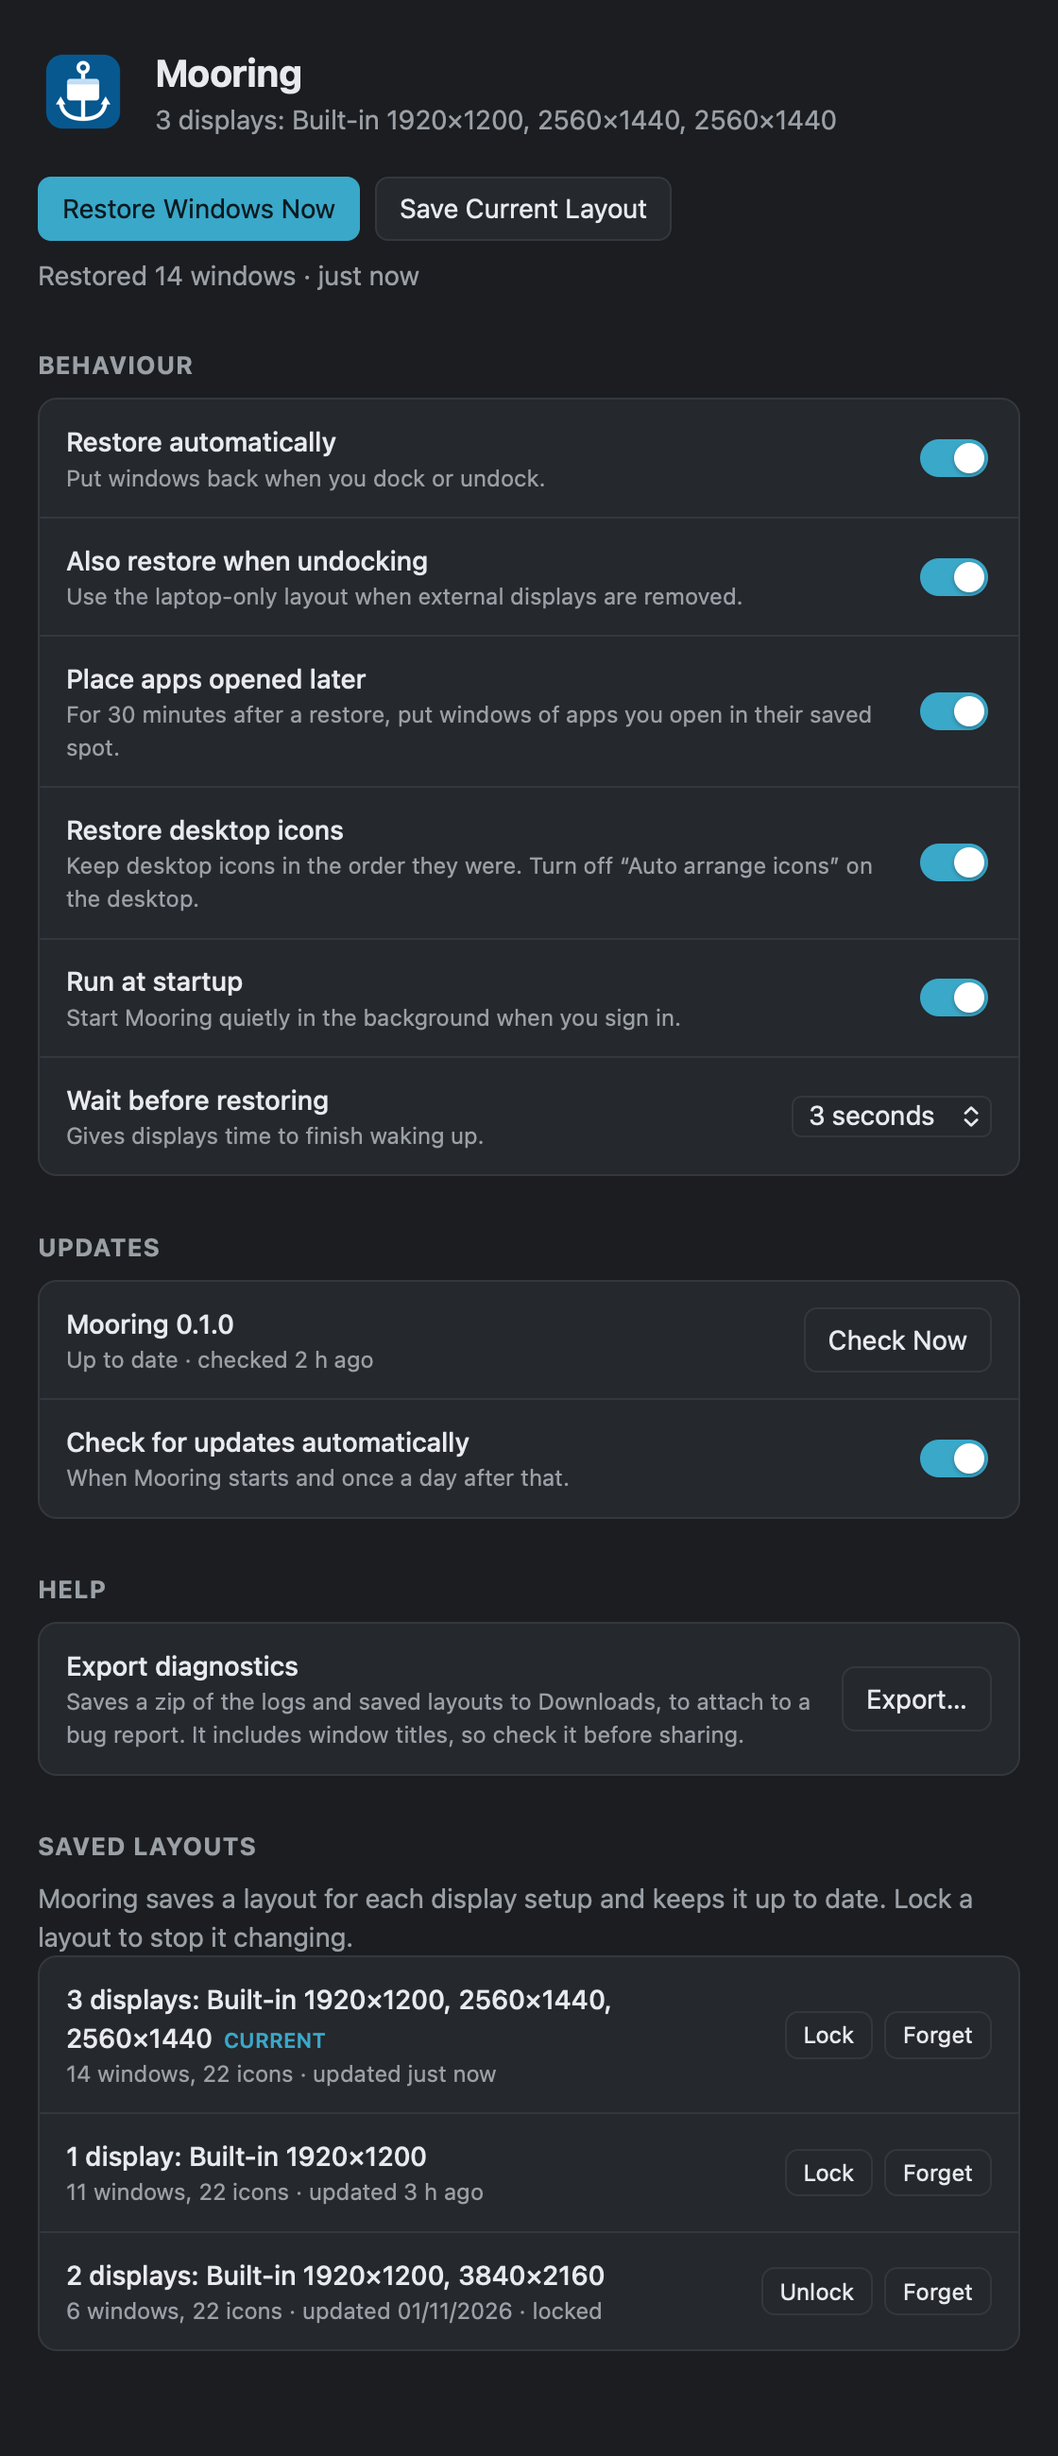
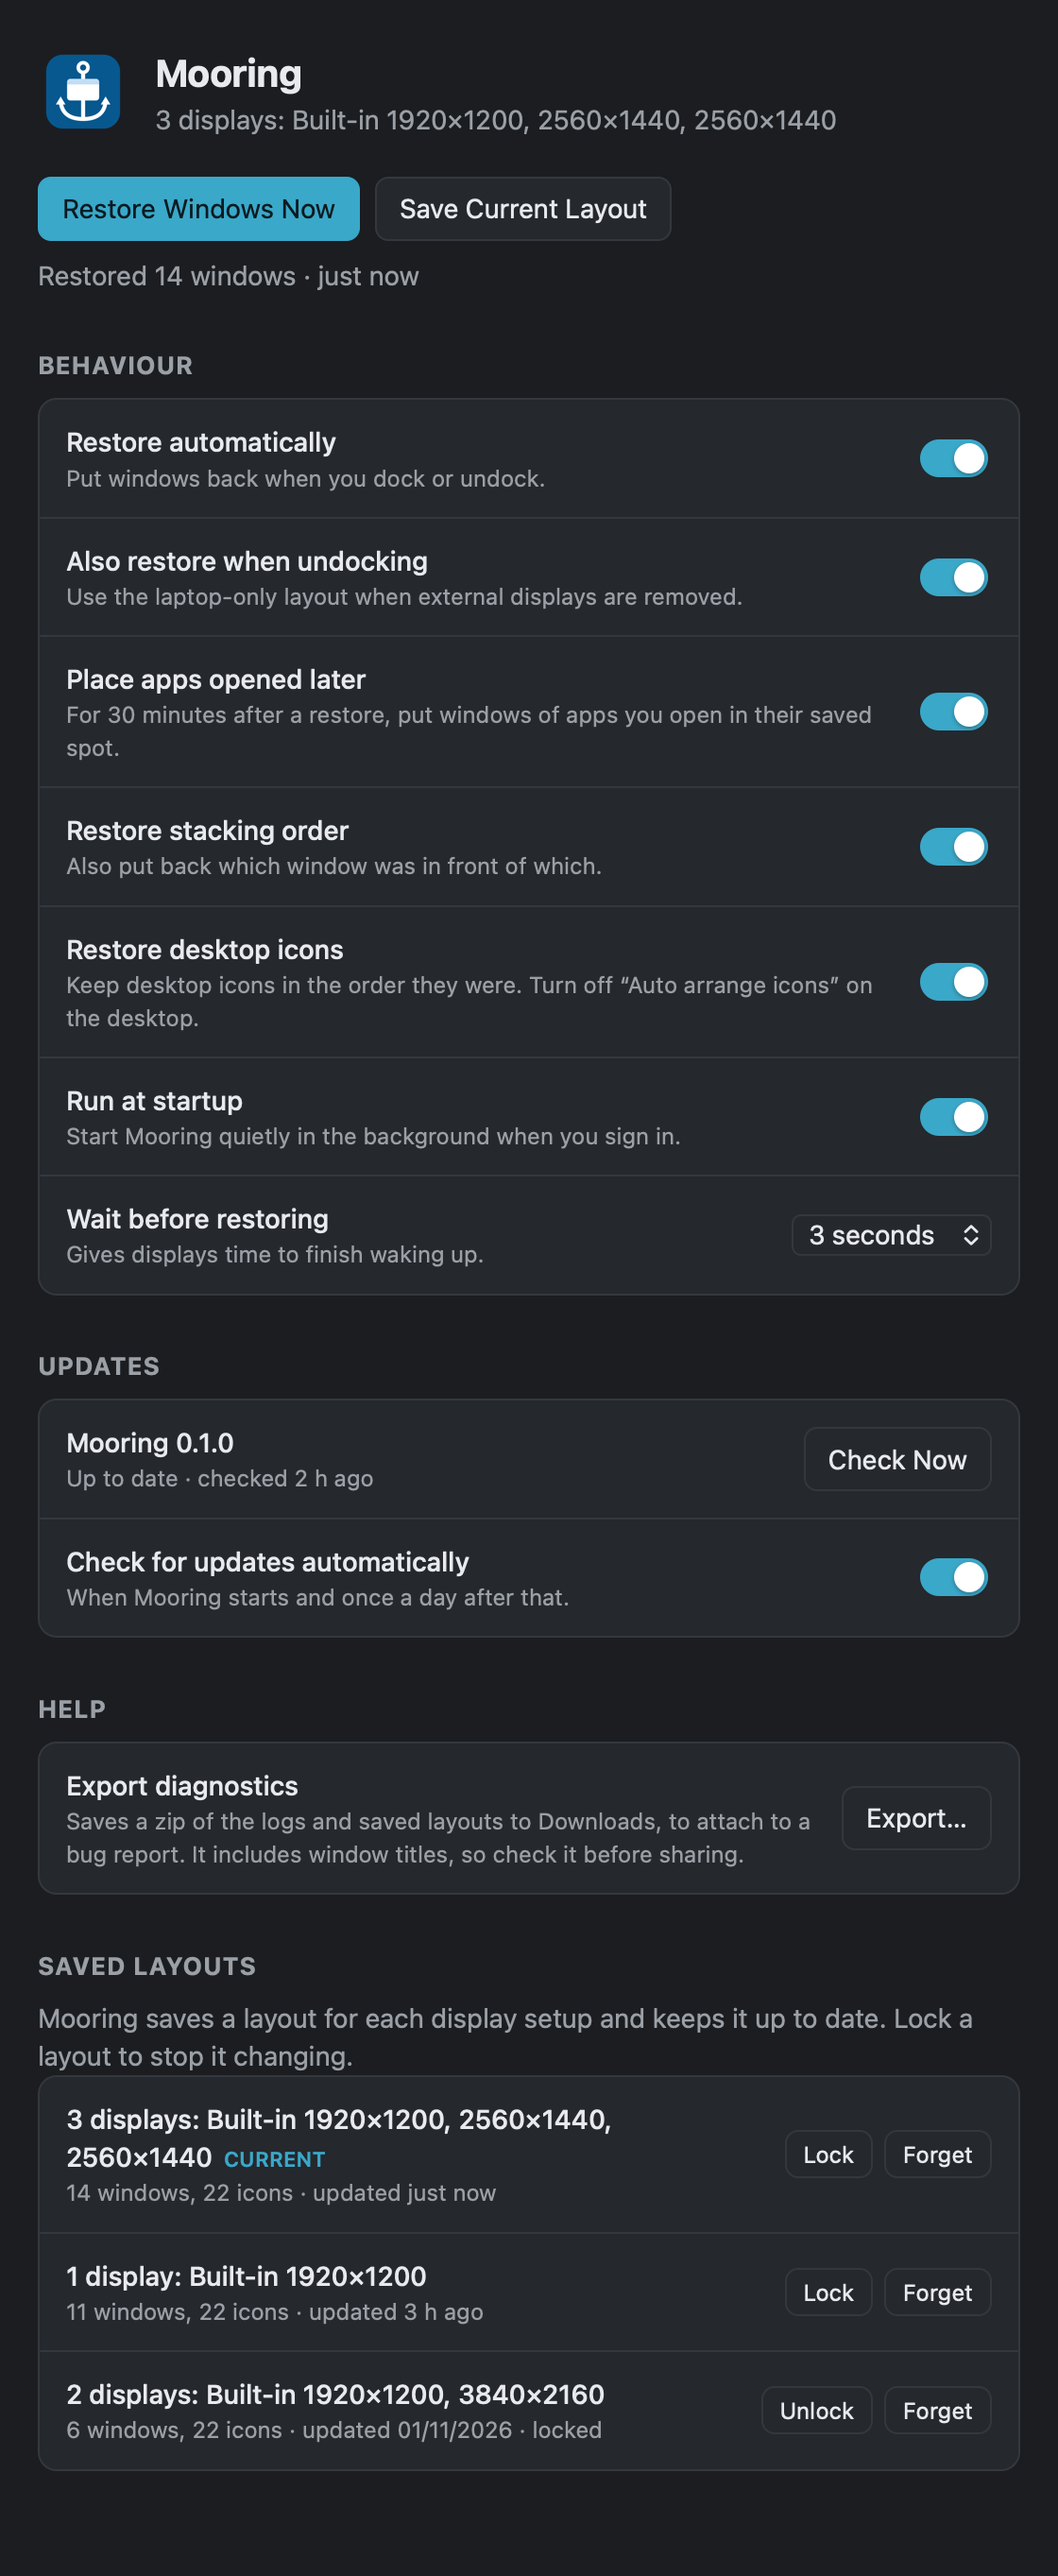
Restore window stacking order
After a restore, windows are put back in their saved front-to-back
order. Windows reorders them with SetWindowPos without activating any;
macOS raises each window back to front through Accessibility, which
briefly brings each app forward. "Restore stacking order" is on by
default on Windows and off on macOS.

diff --git a/ui/main.js b/ui/main.js
@@ -1,6 +1,6 @@
 const { invoke } = window.__TAURI__.core;
 const $ = (id) => document.getElementById(id);
-const fields = ["auto_restore", "restore_on_undock", "restore_desktop_icons", "launch_at_login", "settle_delay_secs", "check_for_updates", "place_late_windows"];
+const fields = ["auto_restore", "restore_on_undock", "restore_desktop_icons", "launch_at_login", "settle_delay_secs", "check_for_updates", "place_late_windows", "restore_stacking"];
 let settings = null;
 
 function timeAgo(secs) {
@@ -125,6 +125,10 @@ async function refresh() {
   $("permission").hidden = status.has_permission;
   $("icons-row").hidden = !status.supports_icons;
   $("login-title").textContent = status.platform === "macos" ? "Open at login" : "Run at startup";
+  if (status.platform === "macos") {
+    $("stacking-hint").textContent =
+      "Also put back which window was in front of which. Each app comes forward briefly, so the screen may flicker.";
+  }
   if (status.last_event) {
     showMessage(`${status.last_event} · ${timeAgo(status.last_event_at)}`);
   }

diff --git a/scripts/screenshot.swift b/scripts/screenshot.swift
@@ -14,7 +14,8 @@ const now = Date.now() / 1000;
 const data = {
   get_settings: { auto_restore: true, restore_on_undock: true, restore_desktop_icons: true,
                   launch_at_login: true, settle_delay_secs: 3, snapshot_interval_secs: 5,
-                  check_for_updates: true, place_late_windows: true },
+                  check_for_updates: true, place_late_windows: true,
+                  restore_stacking: true },
   get_status: {
     platform: "windows", supports_icons: true, has_permission: true,
     current_label: "3 displays: Built-in 1920×1200, 2560×1440, 2560×1440",

diff --git a/ui/index.html b/ui/index.html
@@ -61,6 +61,13 @@
         </span>
         <input type="checkbox" id="place_late_windows" role="switch">
       </label>
+      <label class="row">
+        <span>
+          <span class="title">Restore stacking order</span>
+          <span class="hint" id="stacking-hint">Also put back which window was in front of which.</span>
+        </span>
+        <input type="checkbox" id="restore_stacking" role="switch">
+      </label>
       <label class="row" id="icons-row" hidden>
         <span>
           <span class="title">Restore desktop icons</span>

diff --git a/src-tauri/src/platform/macos.rs b/src-tauri/src/platform/macos.rs
@@ -41,6 +41,7 @@ extern "C" {
         value: CFTypeRef,
     ) -> AXError;
     fn AXUIElementSetMessagingTimeout(el: AXUIElementRef, seconds: f32) -> AXError;
+    fn AXUIElementPerformAction(el: AXUIElementRef, action: CFStringRef) -> AXError;
     fn AXValueCreate(kind: u32, ptr: *const c_void) -> AXValueRef;
     fn AXValueGetValue(value: AXValueRef, kind: u32, ptr: *mut c_void) -> u8;
     fn AXIsProcessTrusted() -> u8;
@@ -315,6 +316,40 @@ pub fn apply(target: &WindowState, current: &WindowState) -> Result<(), String> 
         set_attr(el, "AXMinimized", CFBoolean::true_value().as_CFTypeRef())?;
     }
     Ok(())
+}
+
+/// Puts windows in the given front-to-back order, back first. Each window's app
+/// is brought forward and the window raised, so this briefly changes the
+/// focused app. Returns how many windows were raised.
+pub fn set_stacking(front_to_back: &[WindowState]) -> usize {
+    let mut raised = 0;
+    for target in front_to_back.iter().rev() {
+        if target.state == WinState::Minimized || target.id == 0 {
+            continue;
+        }
+        let app = AppElement::new(target.pid);
+        let windows = app.windows();
+        let Some(w) = windows
+            .iter()
+            .find(|w| window_id(w.as_CFTypeRef()) == target.id)
+        else {
+            continue;
+        };
+        let _ = set_attr(
+            app.0.as_CFTypeRef(),
+            "AXFrontmost",
+            CFBoolean::true_value().as_CFTypeRef(),
+        );
+        let raise = attr("AXRaise");
+        if unsafe { AXUIElementPerformAction(w.as_CFTypeRef(), raise.as_concrete_TypeRef()) }
+            == AX_OK
+        {
+            raised += 1;
+        }
+        // Give the window server a moment, or later raises can land first.
+        std::thread::sleep(std::time::Duration::from_millis(40));
+    }
+    raised
 }
 
 pub fn desktop_icons() -> Vec<IconState> {

diff --git a/src-tauri/src/platform/windows.rs b/src-tauri/src/platform/windows.rs
@@ -26,8 +26,9 @@ use windows::Win32::UI::Shell::{
 };
 use windows::Win32::UI::WindowsAndMessaging::{
     EnumWindows, GetClassNameW, GetWindow, GetWindowLongPtrW, GetWindowPlacement, GetWindowTextW,
-    GetWindowThreadProcessId, IsIconic, IsWindowVisible, IsZoomed, SetWindowPlacement, GWL_EXSTYLE,
-    GW_OWNER, SW_SHOWMAXIMIZED, SW_SHOWMINNOACTIVE, SW_SHOWNOACTIVATE, WINDOWPLACEMENT,
+    GetWindowThreadProcessId, IsIconic, IsWindowVisible, IsZoomed, SetWindowPlacement,
+    SetWindowPos, GWL_EXSTYLE, GW_OWNER, HWND_TOP, SWP_NOACTIVATE, SWP_NOMOVE, SWP_NOOWNERZORDER,
+    SWP_NOSIZE, SW_SHOWMAXIMIZED, SW_SHOWMINNOACTIVE, SW_SHOWNOACTIVATE, WINDOWPLACEMENT,
     WPF_ASYNCWINDOWPLACEMENT, WS_EX_APPWINDOW, WS_EX_TOOLWINDOW,
 };
 
@@ -273,6 +274,27 @@ pub fn apply(target: &WindowState, current: &WindowState) -> Result<(), String> 
         // Fails for windows of elevated apps when Mooring isn't elevated.
         SetWindowPlacement(hwnd, &wp).map_err(|e| e.to_string())
     }
+}
+
+/// Puts windows in the given front-to-back order without activating any of
+/// them: the first goes on top, each next one directly behind the previous.
+/// Returns how many windows were placed.
+pub fn set_stacking(front_to_back: &[WindowState]) -> usize {
+    let flags = SWP_NOMOVE | SWP_NOSIZE | SWP_NOACTIVATE | SWP_NOOWNERZORDER;
+    let mut above = HWND_TOP;
+    let mut placed = 0;
+    for target in front_to_back {
+        if target.state == WinState::Minimized {
+            continue;
+        }
+        let hwnd = hwnd_of(target.id);
+        // Fails for windows of elevated apps when Mooring isn't elevated.
+        if unsafe { SetWindowPos(hwnd, Some(above), 0, 0, 0, 0, flags) }.is_ok() {
+            above = hwnd;
+            placed += 1;
+        }
+    }
+    placed
 }
 
 // ---------- Desktop icons ----------

diff --git a/src-tauri/src/engine.rs b/src-tauri/src/engine.rs
@@ -290,7 +290,7 @@ impl Engine {
             .then(|| LateWatch::new(layout.key.clone(), missing, &current, Instant::now()));
 
         let mut moved: Vec<(&WindowState, u64)> = Vec::new();
-        for (si, ci) in pairs {
+        for &(si, ci) in &pairs {
             let (target, now) = (&layout.windows[si], &current[ci]);
             if target.same_place(now) {
                 continue;
@@ -321,6 +321,23 @@ impl Engine {
                     _ => report.moved += 1,
                 }
             }
+        }
+
+        if self.settings().restore_stacking && pairs.len() > 1 {
+            // Front-to-back as saved, using the windows as they are now.
+            let mut stack: Vec<(u32, WindowState)> = pairs
+                .iter()
+                .map(|&(si, ci)| {
+                    let target = &layout.windows[si];
+                    let mut window = current[ci].clone();
+                    window.state = target.state;
+                    (target.order, window)
+                })
+                .collect();
+            stack.sort_by_key(|(order, _)| *order);
+            let stack: Vec<WindowState> = stack.into_iter().map(|(_, w)| w).collect();
+            let stacked = platform::set_stacking(&stack);
+            log::info!("restored stacking order of {stacked} windows");
         }
 
         if platform::SUPPORTS_ICONS

diff --git a/src-tauri/src/settings.rs b/src-tauri/src/settings.rs
@@ -18,6 +18,9 @@ pub struct Settings {
     pub check_for_updates: bool,
     /// After a restore, put windows of apps opened later in their saved spot.
     pub place_late_windows: bool,
+    /// Also restore which window is in front of which. On macOS this briefly
+    /// brings each app forward, so it's off by default there.
+    pub restore_stacking: bool,
 }
 
 impl Default for Settings {
@@ -30,6 +33,7 @@ impl Default for Settings {
             snapshot_interval_secs: 5,
             check_for_updates: true,
             place_late_windows: true,
+            restore_stacking: cfg!(windows),
         }
     }
 }

diff --git a/src-tauri/src/platform/mod.rs b/src-tauri/src/platform/mod.rs
@@ -1,5 +1,5 @@
 //! OS-specific window access. Each backend provides the same free functions:
-//! `displays`, `windows`, `apply`, `desktop_icons`, `set_desktop_icons`,
+//! `displays`, `windows`, `apply`, `set_stacking`, `desktop_icons`, `set_desktop_icons`,
 //! `has_permission`, `request_permission`, plus `NAME` and `SUPPORTS_ICONS`.
 
 #[cfg(target_os = "macos")]

diff --git a/src-tauri/src/platform/unsupported.rs b/src-tauri/src/platform/unsupported.rs
@@ -12,6 +12,10 @@ pub fn windows() -> Vec<WindowState> {
 pub fn apply(_target: &WindowState, _current: &WindowState) -> Result<(), String> {
     Err("unsupported platform".into())
 }
+pub fn set_stacking(_front_to_back: &[WindowState]) -> usize {
+    0
+}
+
 pub fn desktop_icons() -> Vec<IconState> {
     Vec::new()
 }

diff --git a/README.md b/README.md
@@ -75,6 +75,7 @@ Open Settings from the tray or menu bar icon, or launch Mooring again (for examp
 | --- | --- | --- |
 | Restore automatically | On | Put windows back when screens change. |
 | Also restore when undocking | On | Also restore the laptop-only layout when screens are removed. |
+| Restore stacking order | On (Windows), Off (macOS) | Also put back which window was in front of which. On a Mac each app comes forward briefly, so the screen may flicker. |
 | Place apps opened later | On | For 30 minutes after a restore, put windows of apps you open in their saved spot (once each). |
 | Restore desktop icons | On | Windows only. |
 | Run at startup / Open at login | On | Start Mooring quietly when you sign in. |
